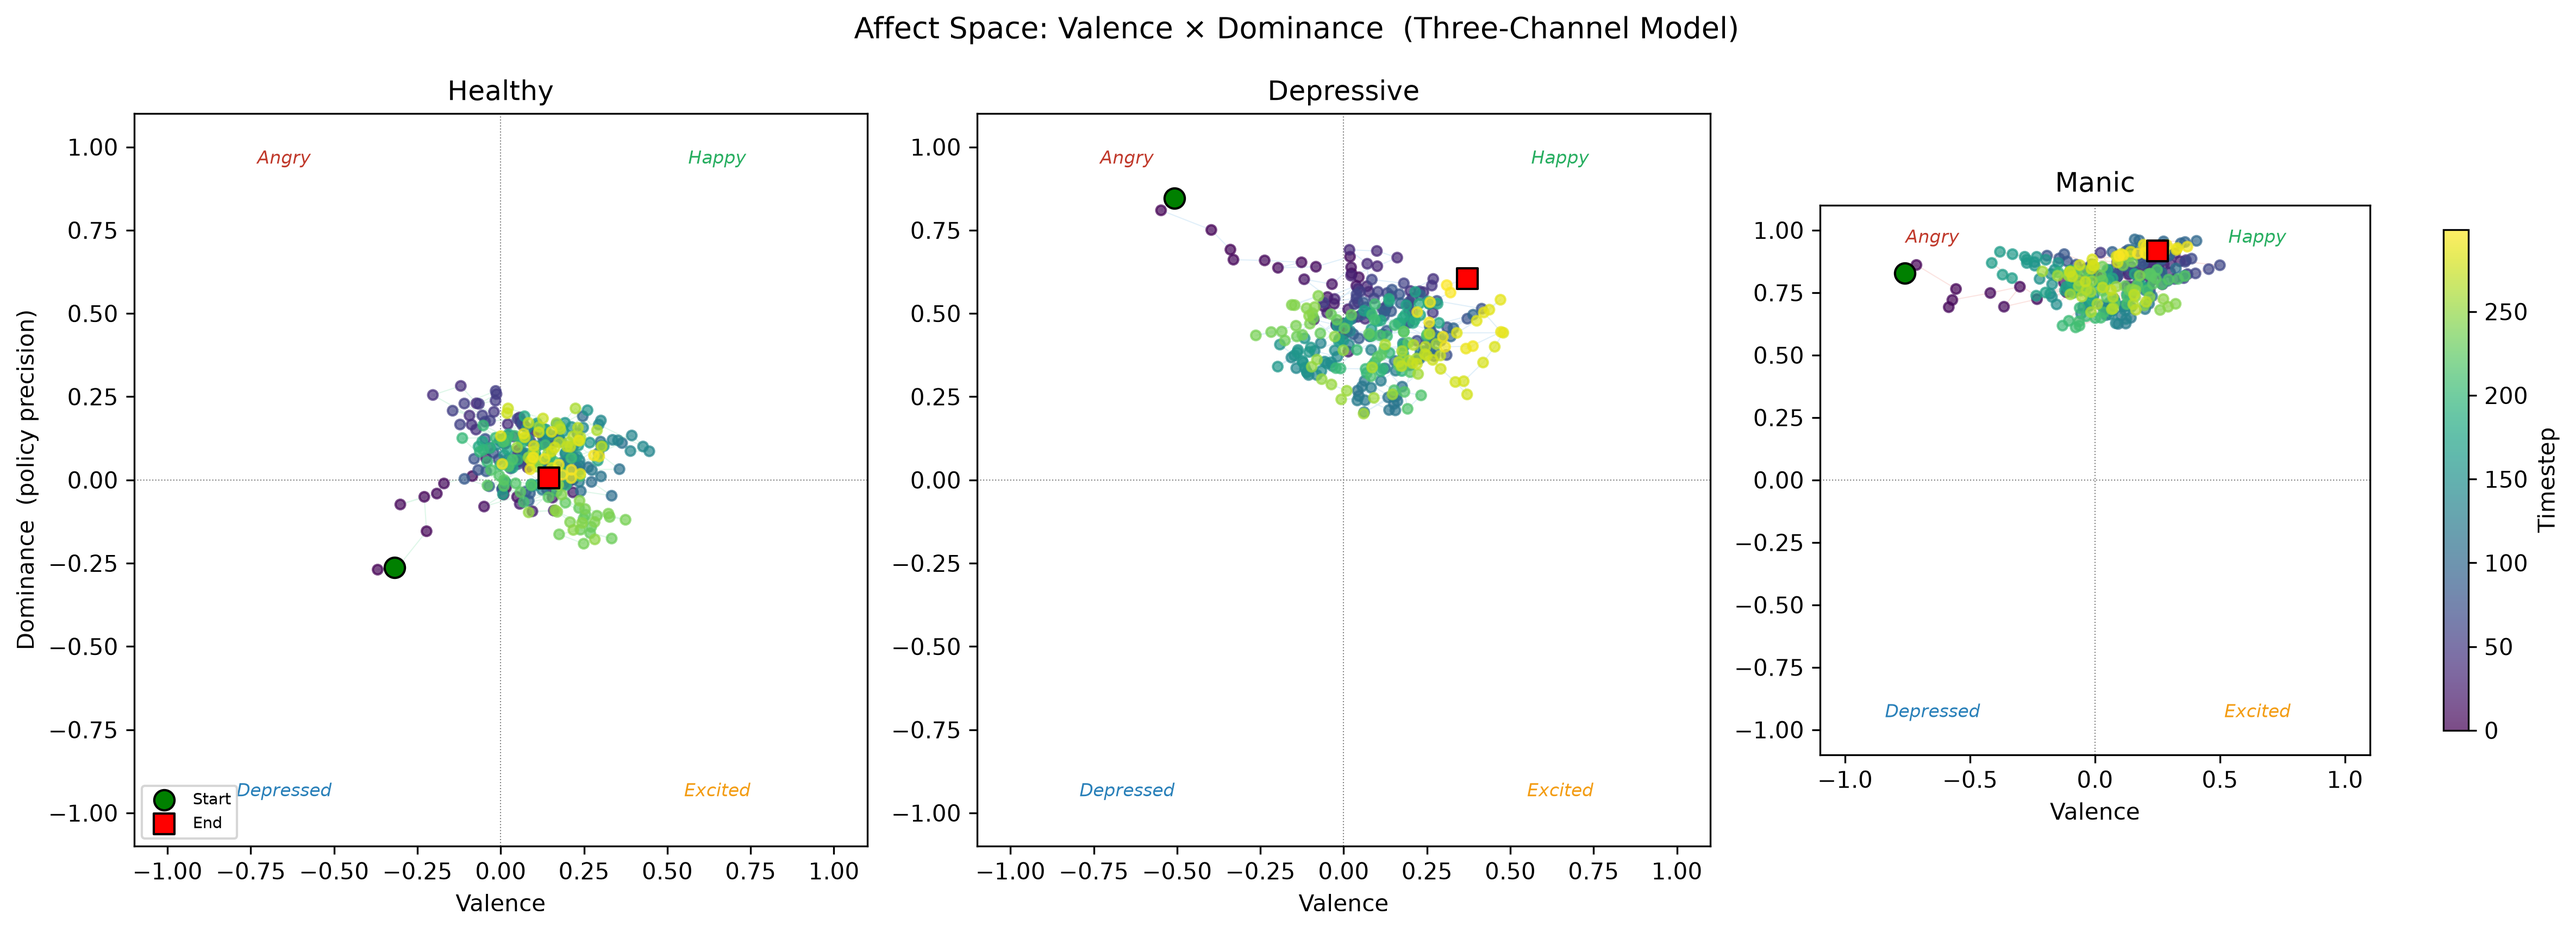
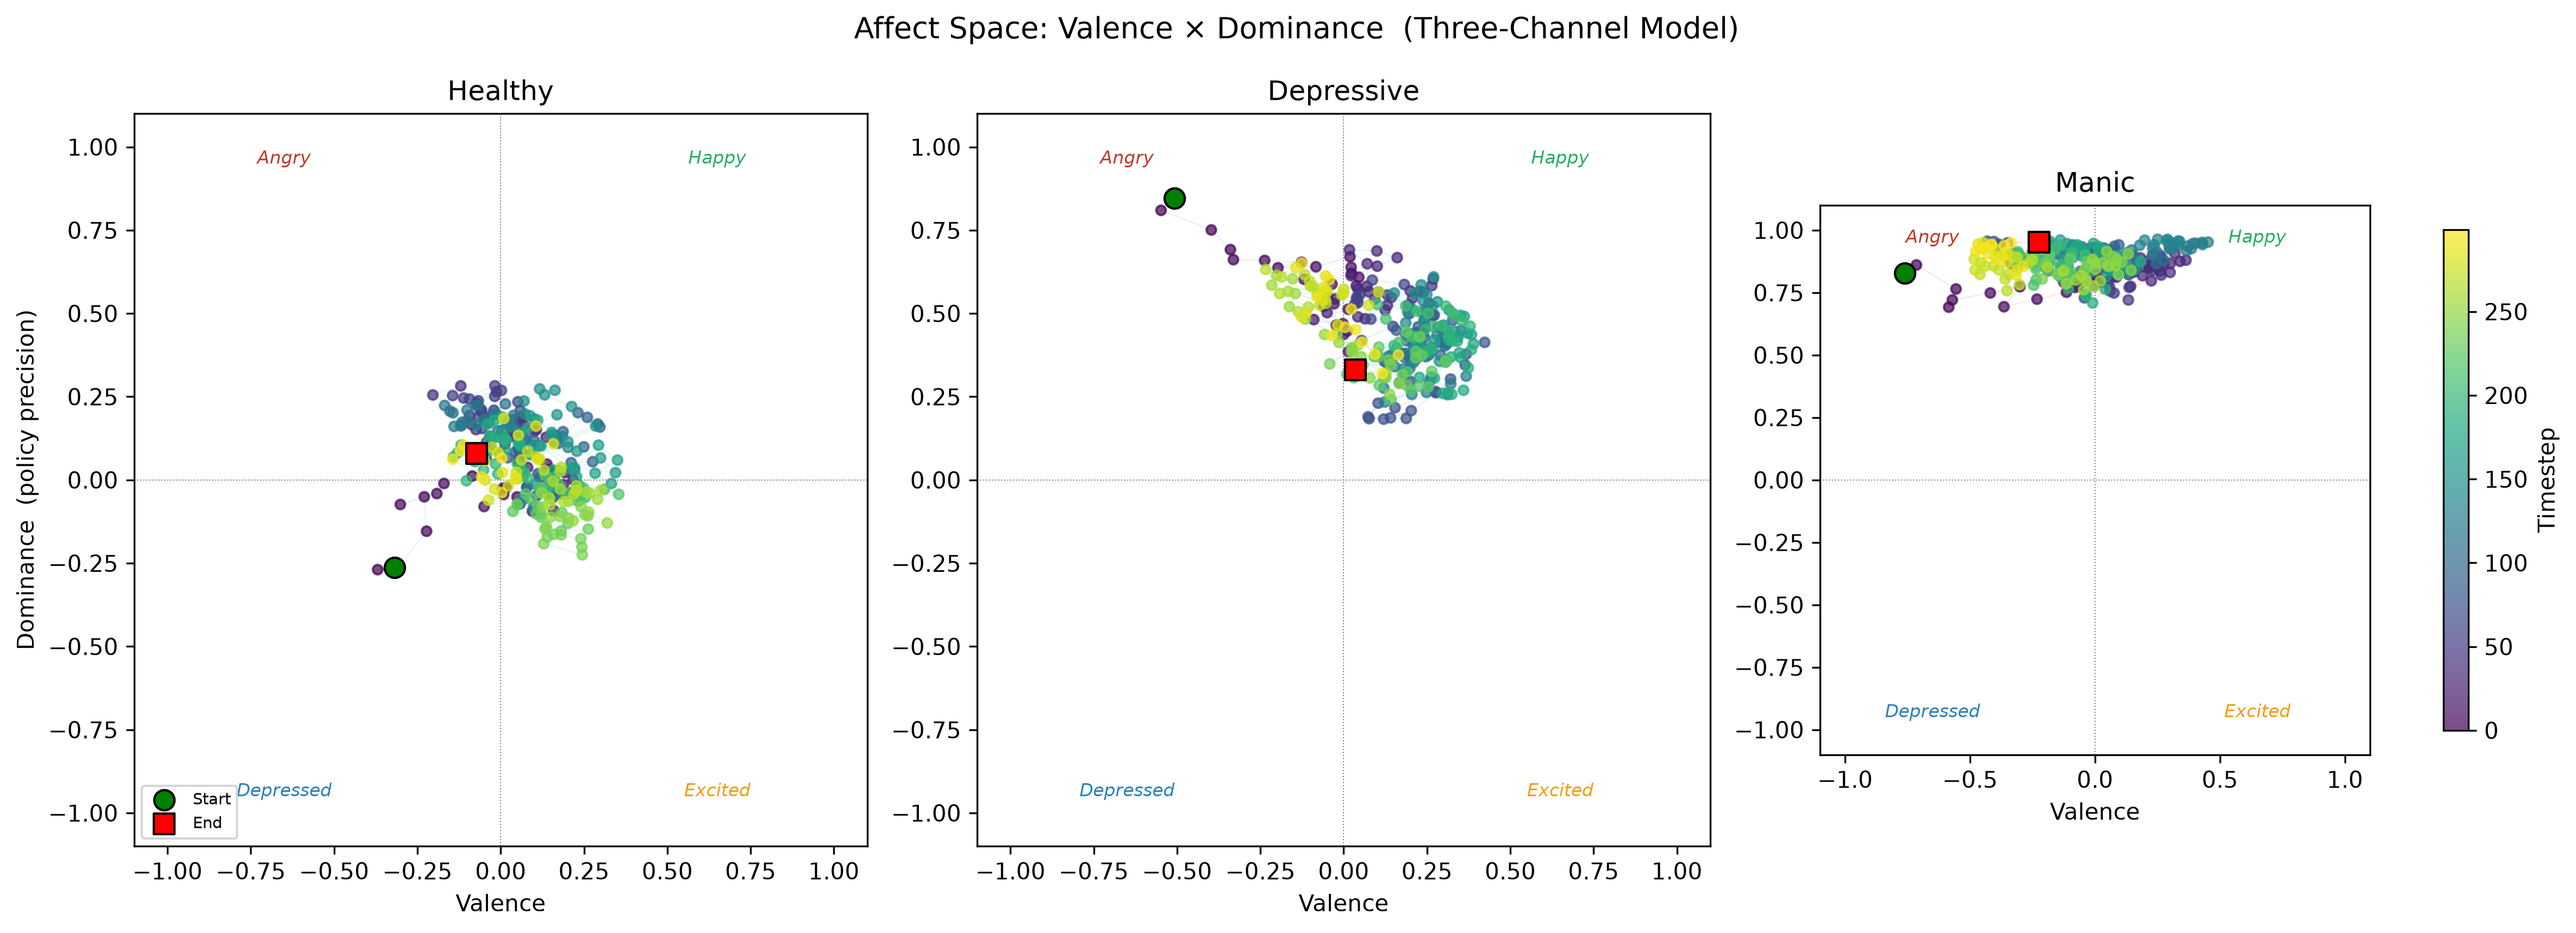
Fix mood-layer bug: valence-based mood -> robust diathesis-stress model
BUG: the M5 mood layer observed mean VFE, which is nearly flat across pi_pos
(range 0.17) and adapts away under chronic stress (a well-adapted depressed agent
has normal VFE). So VFE structurally cannot detect depression -> the mood did a
sticky random walk -> stochastic basin coin-flip. The old "emergent depression
under chronic stress" claim was contradicted across seeds (stressed ended lower
pi_pos 0/10), on both the old and current models.

FIX (agent.py): the mood now observes believed-valence LEVEL, the signal that
stays low in depression (Beck's negative schema; Eldar & Niv 2016 mood-as-reward-
level). Likelihood anchors neutral valence (0.5) to the sigmoid knee (pi_pos=2,
the rumination threshold); persistently below-neutral valence drives pi_pos below
the knee where RECALL rumination sustains a low-mood attractor.

RESULT: robust diathesis-stress (Monroe & Simons 1991), 8 seeds -- only
vulnerability x stress produces depression (vulnerable+stress 0.76, 8/8 depressed;
healthy+stress 5.16 resilient 0/8; vulnerable+calm 4.22 recovers 0/8; healthy+calm
7.43). Redesigned Experiment 7 as a 2x2 diathesis-stress (STRESS_DECAY_PROFILES);
rewrote plot_stress_decay; regenerated all simulation figures.

VERIFIED breaks nothing: ESM (0.194/0.301/0.171 & 0.485/0.375/0.319), Rutledge
(0.144), Mulholland orientation (-0.234), feedback RECALL (26%->0%), phenotypes --
all unchanged. Chronic-stress demo numbers shifted (future 0.66->0.57 etc.),
qualitative story intact.
[…]

Changed region(s): [[0.4684, 0.2776, 0.5932, 0.4627], [0.1561, 0.401, 0.2498, 0.5861], [0.7494, 0.2468, 0.8743, 0.3702]]

diff --git a/plotting.py b/plotting.py
@@ -1247,101 +1247,89 @@ def plot_pi_pos_dynamics(results, save_path=None):
 # ── Figure 14: Stress decay (emergent depression) ───────
 def plot_stress_decay(results, save_path=None):
     """
-    Figure 14: Emergent depression under chronic stress via hierarchical M5.
+    Figure 14: Diathesis-stress. Depression emerges only from vulnerability x
+    stress; the healthy agent is resilient even under chronic stress.
 
-    Row 1: (a) E[pi_pos], (b) valence, (c) RECALL proportion
-    Row 2: (d)-(e) mood posterior heatmaps for each condition
+    Row 1: (a) E[pi_pos] trajectories, (b) believed valence, (c) 2x2 final mood
+    Row 2: (d) mood posterior (vulnerable+stress, collapses), (e) mood posterior
+           (healthy+stress, resilient), (f) mood entropy
     """
-    names = ['healthy_stable', 'healthy_under_stress']
-    _SDCOL = {'healthy_stable': '#2ecc71', 'healthy_under_stress': '#e74c3c'}
+    names = ['healthy_calm', 'healthy_stress', 'vulnerable_calm', 'vulnerable_stress']
+    _SDCOL = {'healthy_calm': '#2ecc71', 'healthy_stress': '#0072B2',
+              'vulnerable_calm': '#E69F00', 'vulnerable_stress': '#D55E00'}
     fig, axes = plt.subplots(2, 3, figsize=(17, 9),
                              gridspec_kw={'height_ratios': [1, 1.2]})
-    sm_alpha = 0.04  # lighter smoothing for longer T
+    sm_alpha = 0.04
 
-    # ── Row 1a: pi_pos divergence ──
+    # ── (a) pi_pos trajectories ──
     ax = axes[0, 0]
     for name in names:
         h = results[name]
-        T = len(h['pi_pos'])
-        t = np.arange(T)
-        label = name.replace('_', ' ').title()
-        ax.plot(t, _ema(h['pi_pos'], sm_alpha), color=_SDCOL[name], lw=1.5,
-                label=label)
-    ax.axhline(2.0, color='gray', lw=0.8, ls=':', label='$\\theta$')
-    ax.set_xlabel('Timestep')
-    ax.set_ylabel('$\\mathbb{E}[\\pi_{\\mathrm{pos}}]$')
+        ax.plot(np.arange(len(h['pi_pos'])), _ema(h['pi_pos'], sm_alpha),
+                color=_SDCOL[name], lw=1.6, label=name.replace('_', ' ').title())
+    ax.axhline(2.0, color='gray', lw=0.8, ls=':', label='rumination knee $\\theta$')
+    ax.set_xlabel('Timestep'); ax.set_ylabel('$\\mathbb{E}[\\pi_{\\mathrm{pos}}]$')
     ax.set_ylim(0, 8.5)
-    ax.set_title('(a) $\\pi_{\\mathrm{pos}}$ Under Chronic Stress')
-    ax.legend(fontsize=8)
+    ax.set_title('(a) Mood trajectory by condition')
+    ax.legend(fontsize=7.5)
 
-    # ── Row 1b: Valence trajectories ──
+    # ── (b) believed valence ──
     ax = axes[0, 1]
     for name in names:
         h = results[name]
-        T = len(h['valence_belief'])
-        t = np.arange(T)
-        label = name.replace('_', ' ').title()
-        ax.plot(t, _ema(h['valence_belief'], sm_alpha), color=_SDCOL[name],
-                lw=1.5, label=label)
-    ax.set_xlabel('Timestep')
-    ax.set_ylabel('Believed Valence')
+        ax.plot(np.arange(len(h['valence_belief'])),
+                _ema(h['valence_belief'], sm_alpha),
+                color=_SDCOL[name], lw=1.6, label=name.replace('_', ' ').title())
+    ax.axhline(0.5, color='gray', lw=0.8, ls=':')
+    ax.set_xlabel('Timestep'); ax.set_ylabel('Believed valence')
     ax.set_ylim(-0.05, 1.05)
-    ax.set_title('(b) Valence Trajectories')
-    ax.legend(fontsize=8)
+    ax.set_title('(b) Valence: the mood evidence')
 
-    # ── Row 1c: RECALL proportion ──
+    # ── (c) 2x2 diathesis-stress interaction: final mood ──
     ax = axes[0, 2]
-    win = 50
-    for name in names:
-        h = results[name]
-        T = len(h['action'])
-        t = np.arange(T)
-        recall_rate = np.convolve(
-            (h['action'] == RECALL).astype(float),
-            np.ones(win) / win, mode='same')
-        label = name.replace('_', ' ').title()
-        ax.plot(t, recall_rate, color=_SDCOL[name], lw=1.5, label=label)
-    ax.set_xlabel('Timestep')
-    ax.set_ylabel('RECALL proportion (rolling)')
-    ax.set_ylim(-0.05, 1.05)
-    ax.set_title('(c) RECALL Utilisation')
+    final = {n: float(np.mean(results[n]['pi_pos'][-300:])) for n in names}
+    x = np.arange(2)  # calm, stress
+    w = 0.36
+    healthy = [final['healthy_calm'], final['healthy_stress']]
+    vuln = [final['vulnerable_calm'], final['vulnerable_stress']]
+    b1 = ax.bar(x - w/2, healthy, w, color='#2ecc71', label='healthy', edgecolor='white')
+    b2 = ax.bar(x + w/2, vuln, w, color='#D55E00', label='vulnerable', edgecolor='white')
+    for bars in (b1, b2):
+        for b in bars:
+            ax.text(b.get_x()+b.get_width()/2, b.get_height()+0.1,
+                    f'{b.get_height():.1f}', ha='center', fontsize=9)
+    ax.axhline(2.0, color='gray', lw=0.8, ls=':', label='rumination knee')
+    ax.set_xticks(x); ax.set_xticklabels(['low stress', 'chronic stress'])
+    ax.set_ylabel('final $\\mathbb{E}[\\pi_{\\mathrm{pos}}]$'); ax.set_ylim(0, 8.5)
+    ax.set_title('(c) Diathesis $\\times$ stress: only the\nconjunction crosses into depression')
     ax.legend(fontsize=8)
 
-    # ── Row 2: mood posterior heatmaps ──
-    for col_idx, name in enumerate(names):
+    # ── (d, e) mood posteriors: vulnerable+stress vs healthy+stress ──
+    for col_idx, name in [(0, 'vulnerable_stress'), (1, 'healthy_stress')]:
         ax = axes[1, col_idx]
-        h = results[name]
-        mb = h['mood_beliefs']  # (T, N_MOOD)
-        T = mb.shape[0]
+        mb = results[name]['mood_beliefs']; T = mb.shape[0]
         im = ax.imshow(mb.T, aspect='auto', origin='lower',
-                       extent=[0, T, MOOD_BIN_CENTERS[0] - 0.5,
-                               MOOD_BIN_CENTERS[-1] + 0.5],
+                       extent=[0, T, MOOD_BIN_CENTERS[0]-0.5, MOOD_BIN_CENTERS[-1]+0.5],
                        cmap='viridis', vmin=0, vmax=1)
         ax.set_xlabel('Timestep')
         if col_idx == 0:
             ax.set_ylabel('$\\pi_{\\mathrm{pos}}$ bin')
-        label = name.replace('_', ' ').title()
-        ax.set_title(f'({"de"[col_idx]}) Mood Posterior: {label}')
+        tag = 'vulnerable + stress (collapses)' if col_idx == 0 else 'healthy + stress (resilient)'
+        ax.set_title(f'({"de"[col_idx]}) Mood posterior: {tag}')
         plt.colorbar(im, ax=ax, shrink=0.8, label='$q(\\mu)$')
 
-    # Third panel in row 2: difference in mood entropy
+    # ── (f) mood entropy ──
     ax = axes[1, 2]
     for name in names:
-        h = results[name]
-        mb = h['mood_beliefs']
-        T = mb.shape[0]
-        t = np.arange(T)
+        h = results[name]; mb = h['mood_beliefs']
         mood_H = -np.sum(mb * np.log(mb + 1e-16), axis=1)
-        label = name.replace('_', ' ').title()
-        ax.plot(t, _ema(mood_H, sm_alpha), color=_SDCOL[name], lw=1.5,
-                label=label)
-    ax.set_xlabel('Timestep')
-    ax.set_ylabel('$H[q(\\mu)]$')
-    ax.set_title('(f) Mood Posterior Entropy')
-    ax.legend(fontsize=8)
+        ax.plot(np.arange(mb.shape[0]), _ema(mood_H, sm_alpha),
+                color=_SDCOL[name], lw=1.4, label=name.replace('_', ' ').title())
+    ax.set_xlabel('Timestep'); ax.set_ylabel('$H[q(\\mu)]$')
+    ax.set_title('(f) Mood posterior entropy')
 
-    fig.suptitle('Emergent Depression Under Chronic Stress '
-                 '(Hierarchical M5 Mood Layer)',
+    fig.suptitle('Diathesis-Stress: Depression Emerges from Vulnerability $\\times$ '
+                 'Chronic Stress (Hierarchical M5 Mood Layer)',
                  fontsize=14, y=1.02)
     plt.tight_layout()
     if save_path:

diff --git a/agent.py b/agent.py
@@ -85,6 +85,7 @@ class Agent:
         self.B_mood = build_B_mood()
         self.mood_beliefs = build_D_mood(pi_pos)
         self._vfe_buffer = []
+        self._val_buffer = []           # believed-valence level (mood evidence)
         self._step_count = 0
         self._mood_calibrated = False   # online offset not yet applied
 
@@ -115,6 +116,7 @@ class Agent:
         self.pi_pos = self._initial_pi_pos
         self.mood_beliefs = build_D_mood(self._initial_pi_pos)
         self._vfe_buffer = []
+        self._val_buffer = []
         self._step_count = 0
         self._intero_vfe_ema = 0.0
         self._vfe_ema = None
@@ -190,6 +192,12 @@ class Agent:
 
         # ── M5 mood layer: hierarchical Bayesian inference ──
         self._vfe_buffer.append(float(vfe))
+        # Believed-valence level (0..1): the mood evidence. Unlike VFE (which
+        # adapts away) valence level stays low in depression, so it is what lets
+        # chronic stress accumulate into a persistent low-mood state.
+        K_ = self.model.K
+        v_lvl = q_post.reshape(K_, self.model.M, 3).sum(axis=(1, 2))
+        self._val_buffer.append(float(v_lvl @ np.arange(K_) / max(K_ - 1, 1)))
         self._step_count += 1
         if self._step_count % self.T_mood == 0 and \
                 len(self._vfe_buffer) >= self.T_mood:
@@ -332,30 +340,29 @@ class Agent:
         On the first mood window, an online offset correction aligns
         the analytical VFE curve with the agent's actual VFE.
         """
-        window = self._vfe_buffer[-self.T_mood:]
-        mean_vm = float(np.mean(window))
-
-        # Online calibration: shift analytical curve to match observed VFE
-        if not self._mood_calibrated:
-            analytical_at_current = float(np.interp(
-                self.pi_pos, MOOD_BIN_CENTERS, self._vfe_curve))
-            vfe_offset = mean_vm - analytical_at_current
-            calibrated_curve = self._vfe_curve + vfe_offset
-            self.A_mood, self._mood_obs_edges = _build_A_mood_from_vfe(
-                calibrated_curve)
-            self._mood_calibrated = True
-
-        # Bin the observation
-        o_mood = int(np.digitize(mean_vm, self._mood_obs_edges[1:-1]))
-        o_mood = min(o_mood, N_OBS_MOOD - 1)
+        mean_val = float(np.mean(self._val_buffer[-self.T_mood:]))
 
         # Predict (slow mood transition)
         q_pred = self.B_mood @ self.mood_beliefs
         q_pred = np.maximum(q_pred, EPS)
         q_pred /= q_pred.sum()
 
-        # Update (Bayesian)
-        lik = self.A_mood[o_mood, :]
+        # Update (Bayesian): the mood infers pi_pos from believed-valence level,
+        # relative to neutral (0.5). Above neutral -> high pi_pos; below -> low.
+        # Each pi_pos bin predicts a valence level spanning the plausible range,
+        # so persistently low valence (chronic stress / anhedonia) drives the
+        # posterior toward low pi_pos, which in turn biases RECALL/FUTURATE toward
+        # negative targets -> a self-sustaining low-mood attractor (Beck's schema;
+        # Eldar & Niv 2016 mood-as-reward-level).
+        # The mood infers pi_pos from believed-valence level. Anchor: neutral
+        # valence (0.5) corresponds to the sigmoid knee (pi_pos = 2), the point
+        # below which RECALL turns to rumination; the slope spreads the observed
+        # valence range across the pi_pos axis. So above-neutral valence -> high
+        # pi_pos (resilience), and persistently below-neutral valence (chronic
+        # stress in a vulnerable agent) -> pi_pos below the knee, where rumination
+        # sustains a low-mood attractor (Beck's schema; Eldar & Niv 2016).
+        pred_val = np.clip(0.5 + 0.02 * (MOOD_BIN_CENTERS - 2.0), 0.05, 0.95)
+        lik = np.exp(-0.5 * ((mean_val - pred_val) / 0.06) ** 2)
         q_post = lik * q_pred
         q_post = np.maximum(q_post, EPS)
         q_post /= q_post.sum()
@@ -367,8 +374,9 @@ class Agent:
         # Rebuild lower-level B matrices with updated pi_pos
         self._rebuild_B()
 
-        # Clear buffer for next cycle
+        # Clear buffers for next cycle
         self._vfe_buffer = []
+        self._val_buffer = []
 
     # ── Rebuild B matrices with current pi_pos ─────────────
     def _rebuild_B(self):

diff --git a/experiments.py b/experiments.py
@@ -386,17 +386,33 @@ def run_chronic_stress_experiment(T=300, seed=42):
     return results
 
 
-# ── Experiment 7: Stress decay (hierarchical M5 mood) ─────
+# ── Experiment 7: Diathesis-stress (hierarchical M5 mood) ─
+# 2x2 crossing vulnerability (diathesis) x chronic stress. Depression emerges
+# only from the CONJUNCTION (Monroe & Simons 1991): a healthy agent is resilient
+# even under chronic stress, and vulnerability alone is not sufficient; only the
+# vulnerable agent under stress falls into the low-mood (rumination) attractor.
+# Vulnerability = low positive-belief precision + blunted reward sensitivity
+# (anhedonia, c_scale) + weak interoception; stress = high environmental volatility.
 STRESS_DECAY_PROFILES = {
-    'healthy_stable': dict(
+    'healthy_calm': dict(
         K=8, M=8, pi_pos=5.0, omega_e=5.0, gamma=16.0, c_scale=1.0,
         volatility=0.3,
-        desc='Baseline: stable environment, healthy parameters',
+        desc='Resilient baseline: healthy parameters, low-stress environment',
     ),
-    'healthy_under_stress': dict(
+    'healthy_stress': dict(
         K=8, M=8, pi_pos=5.0, omega_e=5.0, gamma=16.0, c_scale=1.0,
         volatility=0.9,
-        desc='Chronic stress: same agent, high-volatility environment',
+        desc='Stress alone: healthy agent, high-volatility environment (resilient)',
+    ),
+    'vulnerable_calm': dict(
+        K=8, M=8, pi_pos=1.0, omega_e=1.5, gamma=16.0, c_scale=0.25,
+        volatility=0.3,
+        desc='Vulnerability alone: low precision + anhedonia, low-stress (mostly ok)',
+    ),
+    'vulnerable_stress': dict(
+        K=8, M=8, pi_pos=1.0, omega_e=1.5, gamma=16.0, c_scale=0.25,
+        volatility=0.9,
+        desc='Diathesis + stress: vulnerable agent under chronic stress (depression)',
     ),
 }
 

diff --git a/EMPIRICAL_RECORD.md b/EMPIRICAL_RECORD.md
@@ -348,3 +348,39 @@ forward operator (stressed 79% ABSTRACT, FUTURATE ~2%); FUTURATE is a rare high-
 action (~0-2% across phenotypes) by design. Paper + fig11 panel (f) updated to
 forward-framing = FUTURATE+ABSTRACT. Added real citations for Sugawara & Katahira 2021
 and Palminteri et al. 2017; corrected two Mulholland author first names.
+
+## 8. Mood-layer bug fix: valence-based mood -> robust diathesis-stress (2026-07-17)
+
+**Bug (found during phenotype scrutiny):** the M5 mood layer observed mean VFE.
+VFE is (a) nearly flat across pi_pos (range 0.17) and (b) adapts away under chronic
+stress (stressed mean VFE 4.76 vs stable 4.69) -- a well-adapted depressed agent has
+NORMAL VFE. So VFE structurally cannot detect depression; the mood did a sticky random
+walk -> stochastic basin coin-flip. The old "emergent depression under chronic stress"
+claim was contradicted across seeds (stressed ended lower pi_pos 0/10; higher 6/10),
+on BOTH the old fixed-optimism and current models (not caused by the FUTURATE gating).
+
+**Fix (agent.py):** the mood observes believed-valence LEVEL, not VFE -- the one
+signal that stays low in depression (Beck's negative schema; Eldar & Niv 2016
+mood-as-reward-level). Likelihood anchors neutral valence (0.5) to the sigmoid knee
+(pi_pos=2, the rumination threshold); slope spreads the observed valence range across
+the pi_pos axis. Above-neutral valence -> high pi_pos (resilience); persistently
+below-neutral -> below the knee, where RECALL rumination sustains a low-mood attractor.
+
+**Result -- robust diathesis-stress (Monroe & Simons 1991), 8 seeds, T=1500:**
+| condition | final pi_pos | depressed(<2) |
+|---|---|---|
+| healthy + calm | 7.43 +/- 0.02 | 0/8 |
+| healthy + stress | 5.16 +/- 0.69 | 0/8 (resilient -- stress alone insufficient) |
+| vulnerable + calm | 4.22 +/- 1.04 | 0/8 (vulnerability alone insufficient) |
+| vulnerable + stress | 0.76 +/- 0.17 | 8/8 (self-sustaining depressive collapse) |
+
+Only the conjunction produces depression. Vulnerability = low pi_pos + blunted reward
+sensitivity (c_scale, anhedonia) + weak interoception; stress = high volatility.
+
+**Verified the fix breaks nothing:** ESM Geschwind 0.194/0.301/0.171 & osf
+0.485/0.375/0.319 (unchanged); Rutledge head-to-head 0.144 (unchanged); Mulholland
+orientation r=-0.234 (data-side); feedback-reliance RECALL 26%->0% (unchanged);
+phenotypes distinct. Shifted (chronic-stress DEMO, seed 42): stressed future-frame
+0.66->0.57, present 0.25->0.32, reward valence -0.42->-0.35, ABSTRACT 79%->66%
+(qualitative story unchanged). Experiment redesigned as a 2x2 diathesis-stress;
+fig14 rebuilt (STRESS_DECAY_PROFILES, plot_stress_decay).
